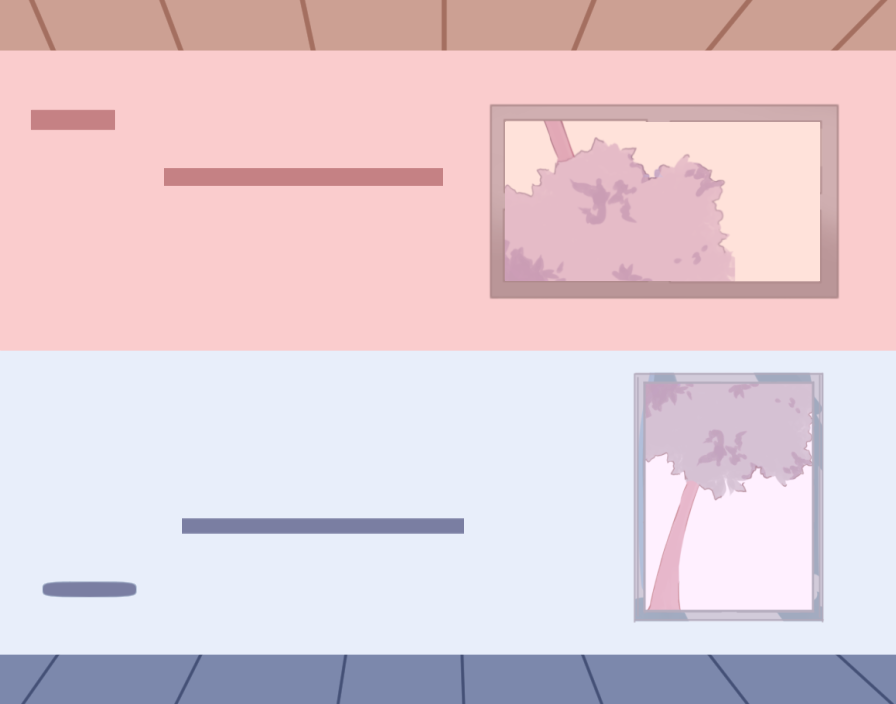
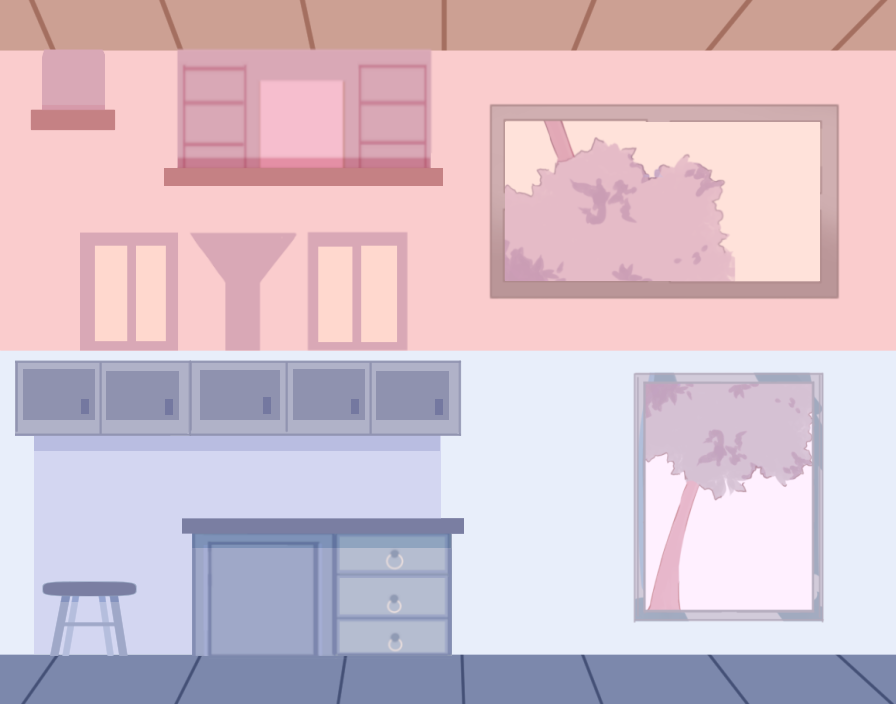
Refined clouds, fences, and windows
-added final transitions
-added purple fade to cloud level

diff --git a/js/States/Clouds.js b/js/States/Clouds.js
@@ -31,10 +31,16 @@ Clouds.prototype = {
         game.camera.onFadeComplete.add(this.resetFade, this);
         game.camera.flash(0xffffff, 2000);
 
-        this.room = game.add.sprite(0,0,'Clouds');
-
         //For when we create a tileset
         this.createPlatforms();
+
+        this.room = game.add.sprite(0,0,'Clouds1');
+        this.room2 = game.add.sprite(0,0,'Clouds2');
+        this.room2.alpha = 0;
+        this.room3 = game.add.sprite(0,0,'Clouds3');
+        this.room3.alpha = 0;
+
+        
 
 
         // Add in the players
@@ -53,10 +59,10 @@ Clouds.prototype = {
 
         this.barrier = this.createBarrier(game.width/2, game.height/2, game.width, 1);
 
-        this.cloud1 = new MovePlatform(game, this, 450, 607, 'cloud2', 607, 380, 'down', 'window');
+        this.cloud1 = new MovePlatform(game, this, 450, 607, 'purpCloud', 607, 350, 'down', 'window');
         game.add.existing(this.cloud1);
 
-        this.cloud2 = new MovePlatform(game, this, 450, 99, 'cloud2', 99, 320, 'up', 'window');
+        this.cloud2 = new MovePlatform(game, this, 450, 99, 'purpCloud2', 99, 350, 'up', 'window');
         game.add.existing(this.cloud2);
 
         this.glow();
@@ -64,10 +70,11 @@ Clouds.prototype = {
     update: function(){
         //Check for player one's win state
         if(this.complete == true) {
-            game.time.events.add(3000, this.fade, this);
+            game.time.events.add(2000, this.preFade, this);
         }
         if(this.cloud1.isMoving == 'locked'){
             this.oneCanWin = true;
+            game.add.tween(this.room2).to( { alpha: 1 }, 1000, Phaser.Easing.Linear.None, true, 0);
         }
         if(this.cloud2.isMoving == 'locked'){
            this.twoCanWin = true;
@@ -76,13 +83,19 @@ Clouds.prototype = {
         if(this.oneCanWin == true && this.twoCanWin == true) {
             if(this.barrierDestroyed == false) {
                 this.barrierDestroyed = true;
-                this.barrier.destroy();
+                game.time.events.add(1000, this.destoyBarrier, this);
+                game.add.tween(this.barrier).to( { alpha: 0 }, 1000, Phaser.Easing.Linear.None, true, 0);
+                game.add.tween(this.room3).to( { alpha: 1 }, 1000, Phaser.Easing.Linear.None, true, 0);
             }
-            if(Phaser.Math.distance(this.player2.x, this.player2.y, this.player1.x, this.player1.y) < 70){
+            if(Phaser.Math.distance(this.player2.x, this.player2.y, this.player1.x, this.player1.y) < 70 && Phaser.Math.distance(this.player2.x, this.player2.y, game.width/2, game.height/2)){
                 this.complete = true;
                 game.add.tween(this.redGlow).to( { alpha: 0.5 }, 100, Phaser.Easing.Linear.None, true, 0);
                 this.redGlow.x = (this.player1.x + this.player2.x)/2;
                 this.redGlow.y = (this.player1.y + this.player2.y)/2;
+            }
+            else { 
+                this.complete = false;
+                game.add.tween(this.redGlow).to( { alpha: 0 }, 100, Phaser.Easing.Linear.None, true, 0);
             }
         }
     },
@@ -92,21 +105,29 @@ Clouds.prototype = {
         this.redGlow.scale.setTo(1.7,1.7);
         this.redGlow.alpha = 0;
     },
-
+    preFade: function() {
+        if(this.complete == true) {
+            game.time.events.add(1000, this.fade, this);
+        }
+    },
     fade: function() {
         //  You can set your own fade color and duration
         game.camera.fade(0xffffff, 2000);
         this.ost.fadeOut(2000);
     },
     resetFade: function() {
-        game.state.start('GameOver', true, false);
+        game.state.start('Ending', true, false);
+    },
+    destoyBarrier: function() {
+        this.barrier.destroy();
     },
 
     //Helper function to create platforms the old fashion way
     createBarrier: function(x,y,width,height){
-        var platform = game.add.sprite(x,y, 'bluePlat');
-        platform.scale.setTo(0.08,0.08);
-        game.physics.p2.enable(platform, true);
+        var platform = game.add.sprite(x,y, 'line');
+        //platform.scale.setTo(0.08,0.08);
+        platform.anchor.setTo(0.5,0.5);
+        game.physics.p2.enable(platform);
         platform.body.setRectangle(width,height, 0, 0, 0);
         platform.body.static = true;
         platform.body.setCollisionGroup(this.platformCollisionGroup);

diff --git a/js/States/Load.js b/js/States/Load.js
@@ -29,8 +29,10 @@ Load.prototype = {
 		
 		game.load.image('title', 'img/cats/title.png');
 		game.load.image('gameOver', 'img/cats/gameOver.png');
+		game.load.image('togetherTitle', 'img/cats/togetherTitle.png');
 		game.load.image('housesTitle', 'img/cats/housesTitle.png');
 		game.load.image('tetherTitle', 'img/cats/tetherTitle.png');
+		game.load.image('endTitle', 'img/cats/endTitle.png');
 
 
 		game.load.image('redBall', 'img/cats/redYarn.png');
@@ -55,14 +57,21 @@ Load.prototype = {
         game.load.image('Threads', 'img/bg/adoption center bg.png');
 		game.load.image('Houses', 'img/bg/new_Houses.png');
 		game.load.image('Windows', 'img/bg/new_Windows.png');
-		game.load.image('Fences', 'img/bg/120 cloud puzzle.png');
-		game.load.image('Clouds', 'img/bg/120_cloud_puzzle2.png');
+		game.load.image('Fences', 'img/bg/new_Fences.png');
+		game.load.image('Clouds1', 'img/bg/new_cloud_puzzle2.png');
+		game.load.image('Clouds2', 'img/bg/new_cloud_puzzle3.png');
+		game.load.image('Clouds3', 'img/bg/new_cloud_puzzle4.png');
+		
 		//Load in object sprites
 		game.load.image('redWindow', 'img/objects/redPullWindow.png');
 		game.load.image('blueWindow', 'img/objects/bluePullWindow.png');
 		game.load.image('redLatch', 'img/objects/redLatch.png');
 		game.load.image('blueLatch', 'img/objects/blueLatch.png');
 		game.load.image('cloud2', 'img/objects/cloud2.png');
+		game.load.image('cloud6', 'img/objects/cloud6.png');
+		game.load.image('purpCloud', 'img/objects/purpCloud.png');
+		game.load.image('purpCloud2', 'img/objects/purpCloud2.png');
+		
 		
 		
 		

diff --git a/js/States/Fences.js b/js/States/Fences.js
@@ -28,11 +28,12 @@ Fences.prototype = {
 
         // Call the loaded in tilemap assets
         this.createPlatforms();
-        this.room = game.add.sprite(0,0,'Fences');
-        
-        // Add the level objectives
+
+         // Add the level objectives
         this.fishBowl = game.add.sprite(79, 404, 'fishbowl');
         this.flower = game.add.sprite(79, 304, 'flower');
+
+        this.room = game.add.sprite(0,0,'Fences');
 
 
         // Add in the players
@@ -56,7 +57,7 @@ Fences.prototype = {
         this.cloud1 = new MovePlatform(game, this, 780, 475, 'cloud2', 475, 310, 'down', 'window');
         game.add.existing(this.cloud1);
 
-        this.cloud2 = new MovePlatform(game, this, 234, 150, 'cloud2', 114, 300, 'up', 'window');
+        this.cloud2 = new MovePlatform(game, this, 234, 150, 'cloud6', 114, 300, 'up', 'window');
         game.add.existing(this.cloud2);
 
     },
@@ -109,7 +110,7 @@ Fences.prototype = {
     createBarrier: function(x,y,width,height){
         var platform = game.add.sprite(x,y, 'line');
         //platform.scale.setTo(0.08,0.08);
-        game.physics.p2.enable(platform, true);
+        game.physics.p2.enable(platform);
         platform.anchor.setTo(0.5,0.5);
         platform.body.setRectangle(width,height, 0, 0, 0);
         platform.body.static = true;

diff --git a/js/States/Ending.js b/js/States/Ending.js
@@ -4,30 +4,29 @@
 // let's keep our code tidy with strict mode 👊
 "use strict";
 //Intantiate the Game over state
-var GameOver = function(game){};
-GameOver.prototype = {
+var Ending = function(game){};
+Ending.prototype = {
 	create: function(){
         //Add in the game over picture
-        this.menu = game.add.sprite(game.width/2,game.height/2,'gameOver');
-        this.menu.anchor.setTo(0.5,0.5);
+        this.menu = game.add.sprite(0,0,'endTitle');
+        game.camera.flash(0xffffff, 2000);
+
         this.space = game.input.keyboard.addKey(Phaser.Keyboard.SPACEBAR);
 
         this.ost = game.add.audio('Cradle');
         this.ost.play('', 0, 1, true);
 
+        // Instantiate the fade events
         game.camera.onFadeComplete.add(this.resetFade, this);
-        this.space.onDown.add(this.fade, this);
+        game.time.events.add(5000, this.fade, this);
     },
     fade: function() {
 
-    //  You can set your own fade color and duration
-    game.camera.fade(0xffffff, 2000);
+        //  You can set your own fade color and duration
+        game.camera.fade(0xffffff, 2000);
 
     },
     resetFade: function() {
-        game.state.start('MainMenu', true, false);
-        //game.camera.resetFX();
-        
-
+        game.state.start('GameOver', true, false);
     }
 }

diff --git a/js/States/Cats.js b/js/States/Cats.js
@@ -106,7 +106,7 @@ Cats.prototype = {
             this.showExit = true;
         }
         if(this.complete == true && this.outroPlaying == true) {
-            game.time.events.add(3000, this.fade, this);
+            game.time.events.add(2000, this.preFade, this);
         }
         if(Phaser.Math.distance(this.player2.x, this.player2.y, this.player1.x, this.player1.y) < 70){
             this.complete = true;
@@ -125,6 +125,11 @@ Cats.prototype = {
         this.redGlow.anchor.setTo(0.5,0.5);
         this.redGlow.scale.setTo(1.7,1.7);
         this.redGlow.alpha = 0;
+    },
+    preFade: function() {
+        if(this.complete == true) {
+            game.time.events.add(1000, this.fade, this);
+        }
     },
     fade: function() {
         //  You can set your own fade color and duration

diff --git a/index.html b/index.html
@@ -25,6 +25,7 @@
 	<script type="text/javascript" src="js/States/Fences.js"></script>
 	<script type="text/javascript" src="js/States/Clouds.js"></script>
 	<!-- Ending & Objects -->
+	<script type="text/javascript" src="js/States/Ending.js"></script>
 	<script type="text/javascript" src="js/States/GameOver.js"></script>
 	<script type="text/javascript" src="js/Prefabs/LevelManager.js"></script>
 	<script type="text/javascript" src="js/Prefabs/Player.js"></script>

diff --git a/js/States/Windows.js b/js/States/Windows.js
@@ -114,7 +114,7 @@ Windows.prototype = {
     createBarrier: function(x,y,width,height){
         var platform = game.add.sprite(x,y, 'line');
         platform.anchor.setTo(0.5,0.5);
-        game.physics.p2.enable(platform, true);
+        game.physics.p2.enable(platform);
         platform.body.setRectangle(width,height, 0, 0, 0);
         platform.body.static = true;
         platform.body.setCollisionGroup(this.platformCollisionGroup);

diff --git a/js/States/Houses.js b/js/States/Houses.js
@@ -142,7 +142,7 @@ Houses.prototype = {
         var platform = game.add.sprite(x,y, 'line');
         //platform.scale.setTo(0.08,0.08);
         platform.anchor.setTo(0.5,0.5);
-        game.physics.p2.enable(platform, true);
+        game.physics.p2.enable(platform);
         platform.body.setRectangle(width,height, 0, 0, 0);
         platform.body.static = true;
         platform.body.setCollisionGroup(this.platformCollisionGroup);

diff --git a/js/Prefabs/MovePlatform.js b/js/Prefabs/MovePlatform.js
@@ -24,7 +24,7 @@ function MovePlatform(game, gameplay, x, y, key, firstY, secondY, gravityDir, pl
 	this.platformType = platformType;
 
 	// Enable physics
-	game.physics.p2.enable(this, true);
+	game.physics.p2.enable(this);
 	this.body.fixedRotation = true; // Cloud cannot rotate
 	this.body.damping = 0.5;
 	this.body.dynamic = true;

diff --git a/js/Prefabs/MovePlatformLimiter.js b/js/Prefabs/MovePlatformLimiter.js
@@ -12,7 +12,7 @@ function MovePlatformLimiter(game, x, y, key){
 	//this.scale.setTo(0.22, 0.11); // Scales the sprite
 	this.alpha = 0;
 
-	game.physics.p2.enable(this, true);
+	game.physics.p2.enable(this);
 	this.body.fixedRotation = true; // Cloud cannot rotate
 	this.body.damping = 0.5;
 	this.body.kinematic = true;

diff --git a/js/States/Together.js b/js/States/Together.js
@@ -17,7 +17,7 @@ Together.prototype = {
 		}
 
 		// Add in the title card, initally invisible
-		this.title = game.add.sprite(0,0,'Together');
+		this.title = game.add.sprite(0,0,'togetherTitle');
 
 		game.camera.flash(0xffffff, 2000);
 

diff --git a/js/main.js b/js/main.js
@@ -30,7 +30,7 @@ window.onload = function(){
 	game.state.add('Fences', Fences);
 	game.state.add('Clouds', Clouds);
 	
-	
+	game.state.add('Ending', Ending);
 	game.state.add('GameOver', GameOver);
 	
 	game.state.start('Boot');
